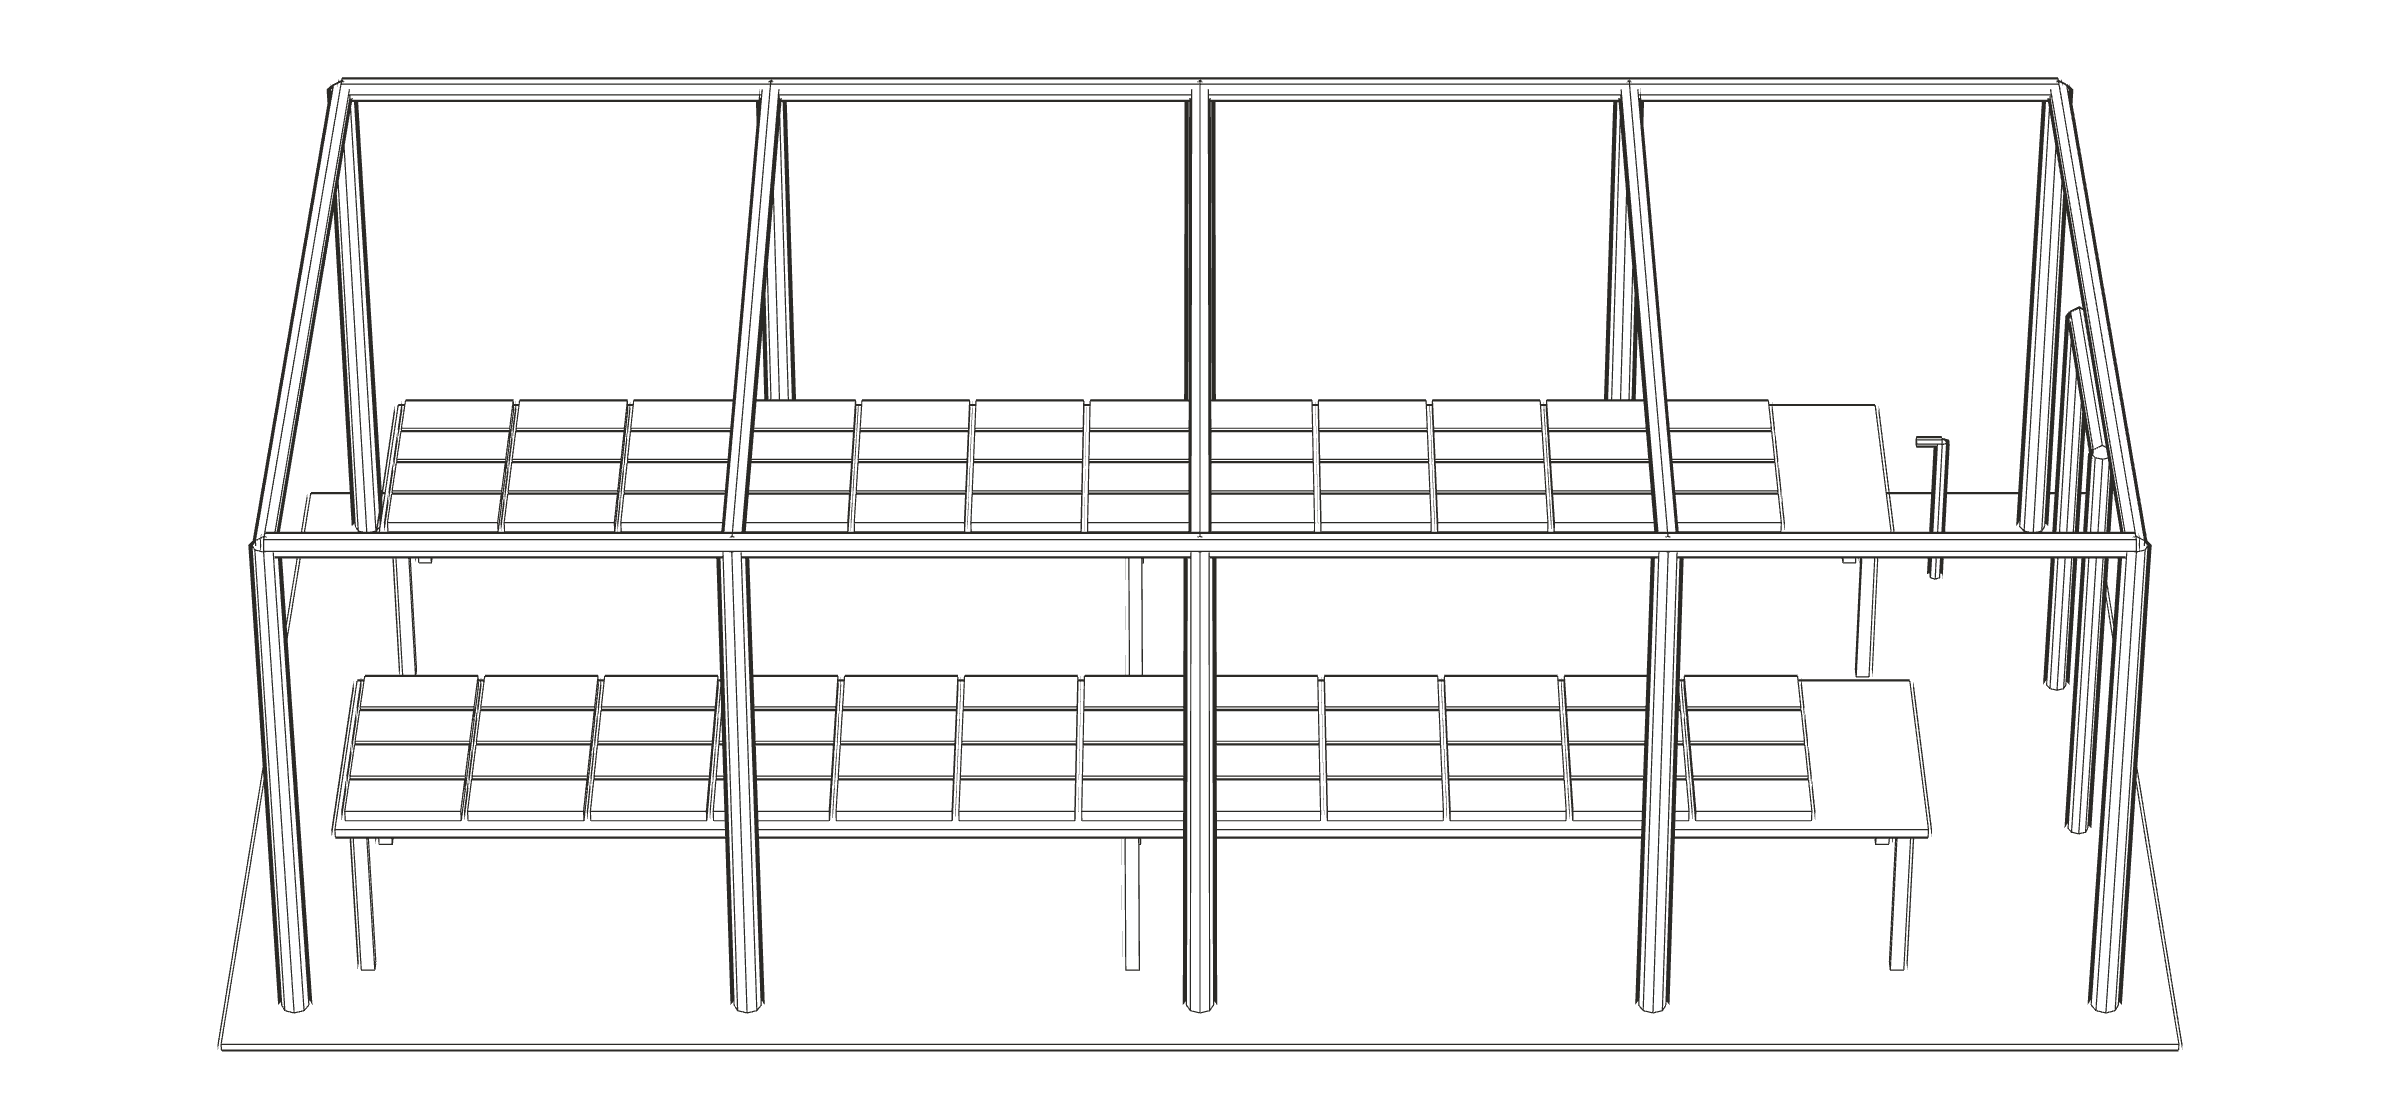
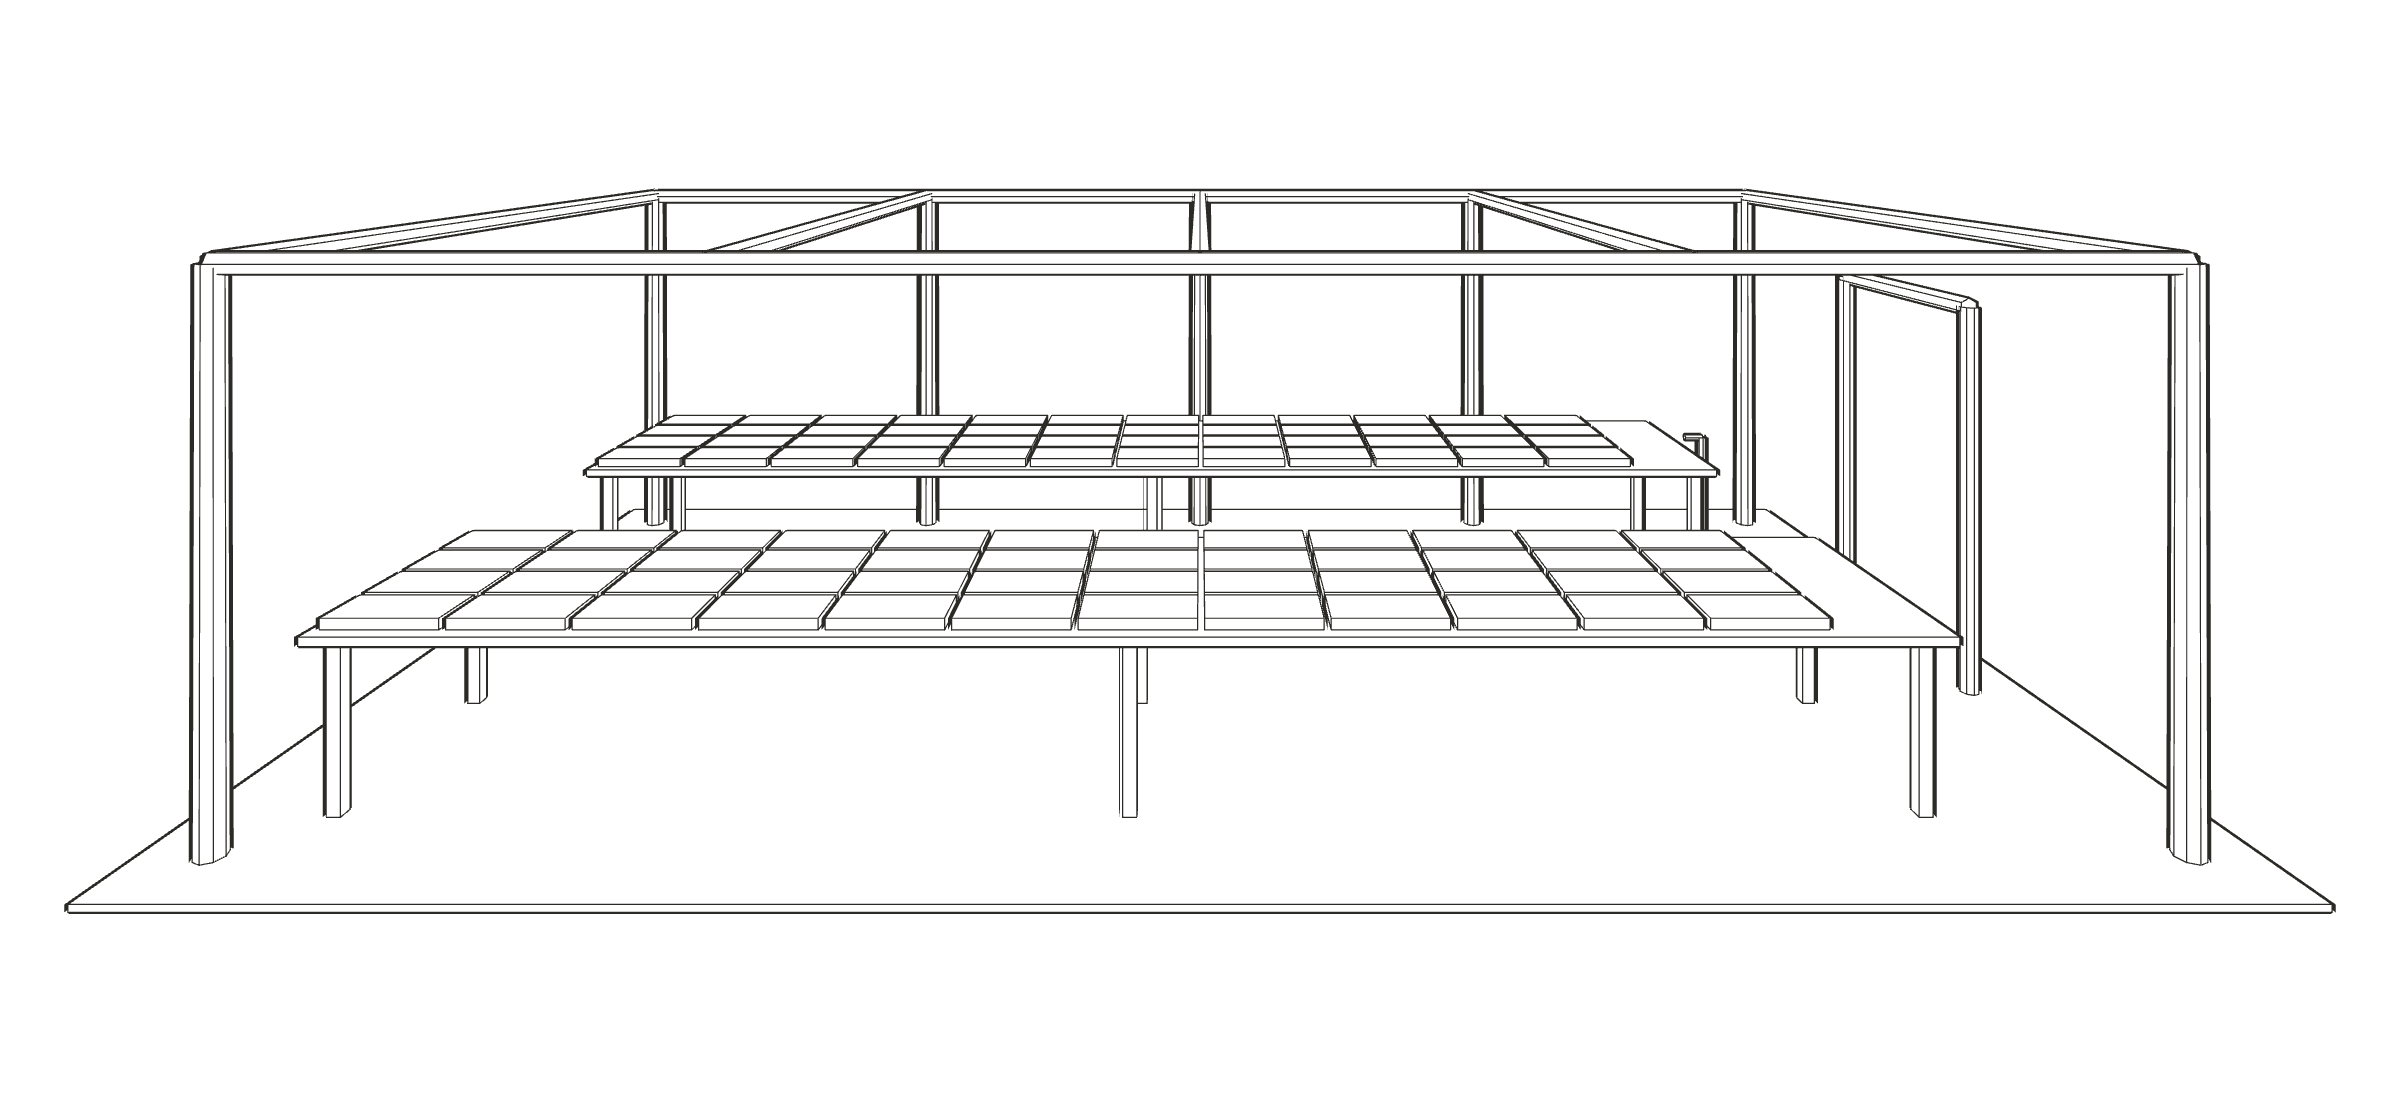
feat(farming): the nursery 3D seen level from the front, as the studio's
The nursery's 3D takes the studio's front view: the camera level a little over
head height, the front poles and the roof net off so the benches of trays show.

Claude-Session: https://claude.ai/code/session_01S6J7HfcfzMCDbDDKUuUjeQ

Changed region(s): [[0.0312, 0.0618, 0.9688, 0.9582]]

diff --git a/scripts/site/render/farm-extras.html b/scripts/site/render/farm-extras.html
@@ -3,8 +3,8 @@
   /en/farming's two smaller 3D views, in the pattern of the studio's and the field's: on the white page, seen from
   the front with a long lens, from src/components/farming/farming.json and public/designs/farming/data/plan.json.
 
-    ?view=nursery  the seedling nursery: the shade-net house on its eucalyptus poles, the net off the front so its
-                   two benches of trays show, the door at the end, the tap   -> render/nursery-line.png, nursery-real.webp
+    ?view=nursery  the seedling nursery seen level from the front, as the studio's: the shade-net house on its
+                   eucalyptus poles, the net off the front and the roof so its two benches of trays show, the door at the end, the tap   -> render/nursery-line.png, nursery-real.webp
     ?view=fruit    a stretch of the fruit row behind the field's back fence: banana mats between avocado, mango,
                    lemon and papaya trees, at their 3 m spacing             -> render/fruit-line.png, fruit-real.webp
     &mode=line     line drawing on a transparent ground; otherwise materials and soft daylight
@@ -97,10 +97,12 @@ if (VIEW === "nursery") {
   const N = F.nursery, L = N.l, W = N.w, Ht = N.h, b = N.bench, t = N.tray
   blk(-0.3, -0.3, L + 0.3, W + 0.3, -0.03, 0, "ground")
   // the frame: poles every 2 m on both long sides, a ridge pole and rafters for a low pitched roof, the net over the back and the roof
-  for (let x = 0; x <= L + 1e-6; x += N.post) for (const z of [0, W]) cyl(x, z, 0.06, 0, Ht, "pole", 8, 0.055)
+  // the poles: every 2 m along the back; along the front only the corners, the rest off in this cutaway, as the
+  // studio's front wall
+  for (let x = 0; x <= L + 1e-6; x += N.post) for (const z of [0, W]) if (z === 0 || x === 0 || x >= L - 1e-6) cyl(x, z, 0.06, 0, Ht, "pole", 8, 0.055)
   for (const z of [0, W]) pipe([0, Ht, z], [L, Ht, z], 0.05, "pole")
   for (let x = 0; x <= L + 1e-6; x += N.post) pipe([x, Ht, 0], [x, Ht, W], 0.045, "pole")
-  add(new THREE.PlaneGeometry(L, W), "net", { pos: [L / 2, Ht + 0.02, W / 2], rot: [-Math.PI / 2, 0, 0], noEdges: true }) // the net roof
+  // the roof net is off in this cutaway, as the studio's ceiling, so the benches show
   add(new THREE.PlaneGeometry(L, Ht), "net", { pos: [L / 2, Ht / 2, 0], noEdges: true }) // the back; the front is drawn open
   for (const x of [0, L]) { // the ends: net, with the door frame in the end at +x
     add(new THREE.PlaneGeometry(W, Ht), "net", { pos: [x, Ht / 2, W / 2], rot: [0, Math.PI / 2, 0], noEdges: true })
@@ -165,10 +167,17 @@ if (VIEW === "fruit") {
 const bb = new THREE.Box3()
 for (const o of meshes) bb.expandByObject(o)
 const mid = bb.getCenter(new THREE.Vector3())
-const camera = new THREE.PerspectiveCamera(18, FW / FH, 0.3, 300)
-const [el, dist] = [THREE.MathUtils.degToRad(VIEW === "nursery" ? 32 : 18), 40]
-camera.position.set(mid.x, mid.y + dist * Math.sin(el), mid.z + dist * Math.cos(el))
-camera.lookAt(mid)
+let camera
+if (VIEW === "nursery") { // as the studio's front view: standing in front at a little over head height, level, so verticals stay straight
+  camera = new THREE.PerspectiveCamera(56, FW / FH, 0.1, 100)
+  camera.position.set(mid.x, 3.0, bb.max.z + 4.6)
+  camera.lookAt(mid.x, 3.0, 0)
+} else {
+  camera = new THREE.PerspectiveCamera(18, FW / FH, 0.3, 300)
+  const [el, dist] = [THREE.MathUtils.degToRad(18), 40]
+  camera.position.set(mid.x, mid.y + dist * Math.sin(el), mid.z + dist * Math.cos(el))
+  camera.lookAt(mid)
+}
 camera.updateMatrixWorld(); camera.updateProjectionMatrix(); scene.updateMatrixWorld(true)
 {
   let px = [Infinity, Infinity, -Infinity, -Infinity]

diff --git a/src/lib/design-blur.generated.ts b/src/lib/design-blur.generated.ts
@@ -8,7 +8,7 @@ export const DESIGN_BLUR: Record<string, string> = {
[8 lines of base64/hex data omitted]

diff --git a/src/app/en/farming/page.tsx b/src/app/en/farming/page.tsx
@@ -94,8 +94,8 @@ export default function FarmingPage() {
         realAlt="The same block rendered on the white page: red-brown beds with dark compost, black drip tape, herbs, wine-red amaranth, spinach, kale and staked tomatoes with red and yellow fruit, on a sandy path." />
 
       <ModelSection id="nursery-3d" title="Nursery 3D" line={`${D}/render/nursery-line.png`} real={`${D}/render/nursery-real.webp`} width={2400} height={1100}
-        lineAlt="Line drawing of the seedling nursery from the front with its front net off: eucalyptus poles every 2 m under a flat frame, two waist-high benches of seedling trays, the door frame at the right end and a tap by it."
-        realAlt="The same view rendered: grey-green shade net over the roof and the back, timber benches holding black trays of green seedlings, and a steel tap by the door." />
+        lineAlt="Line drawing of the seedling nursery seen level from the front with its front and roof off: eucalyptus poles every 2 m along the back under a flat frame, two waist-high benches of seedling trays, the door frame at the right end and a tap by it."
+        realAlt="The same view rendered: eucalyptus poles, grey-green shade net at the back and the ends, timber benches holding black trays of green seedlings, and a steel tap by the door." />
 
       {/* The fruit row behind the field's back fence (D-052): banana mats between grafted avocado, mango, lemon and papaya
           trees, 3 m apart, in the field 2D's pattern (scripts/site/render/farm-extras.html?view=fruit). */}
